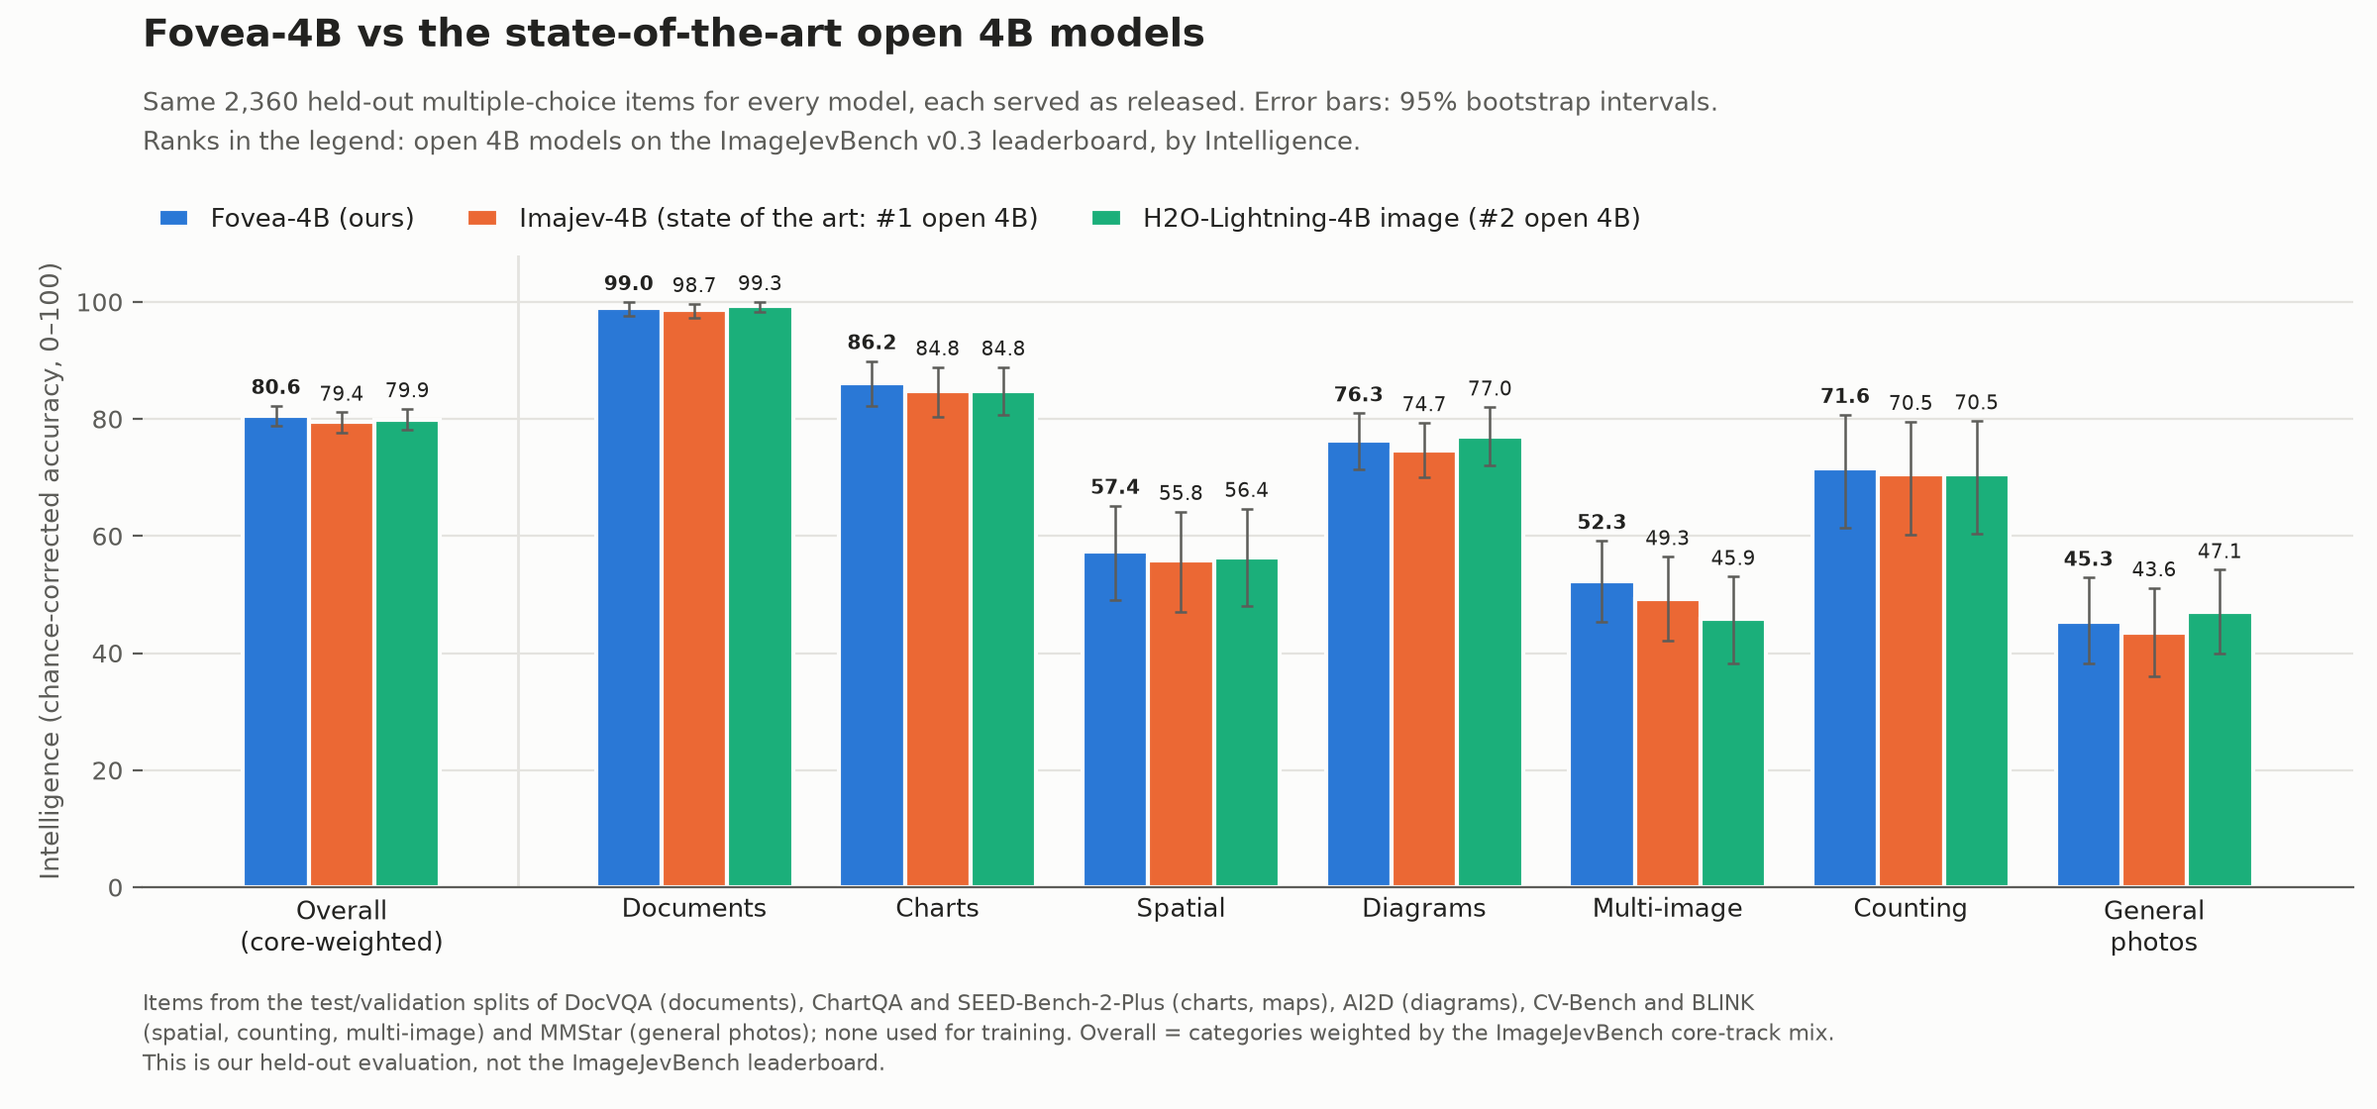
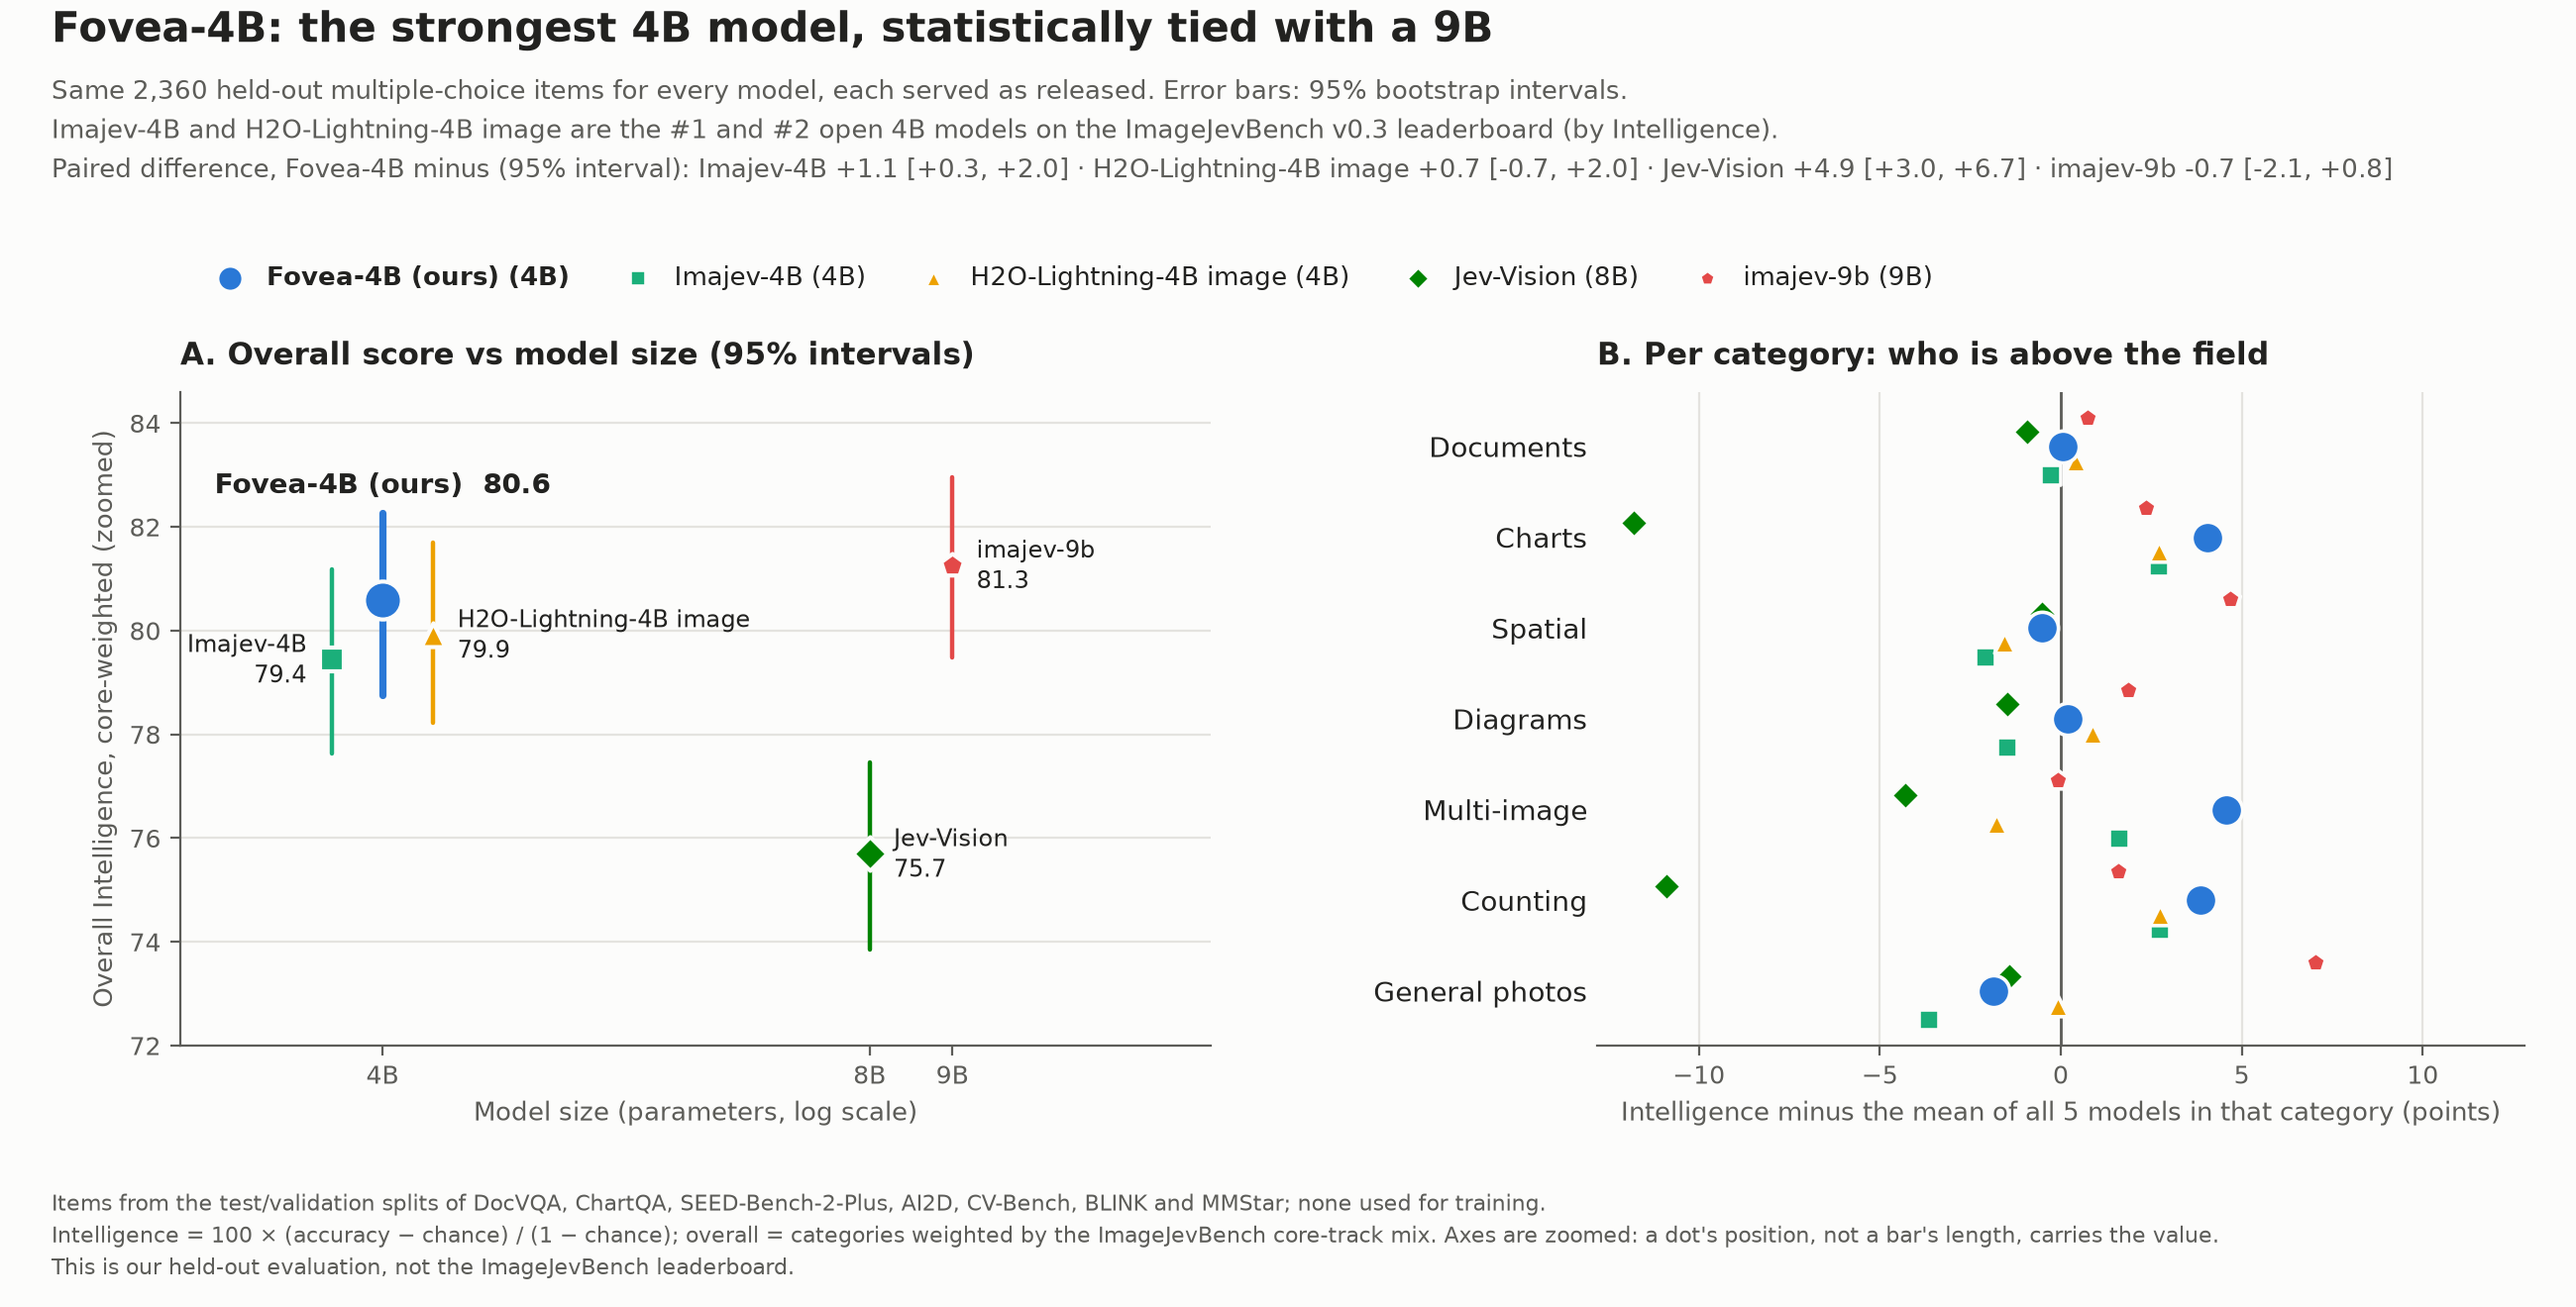
Compare with five open decision models; score-vs-size chart

diff --git a/README.md b/README.md
@@ -10,18 +10,23 @@ over TypeSafe's System One API, so any client of that API can call it unchanged.
 
 ## Results
 
-![Fovea-4B compared with Imajev-4B and H2O-Lightning-4B on 2,360 held-out questions](assets/comparison.png)
+![Fovea-4B compared with four open decision models on 2,360 held-out questions](assets/comparison.png)
 
-We compare Fovea-4B with the two strongest open 4B models on the ImageJevBench v0.3 leaderboard by Intelligence, the
-state of the art at this size: Imajev-4B (#1) and H2O-Lightning-4B image (#2). All three answer the same 2,360 held-out
-multiple-choice questions, each served as its authors release it (Fovea-4B: images up to 2 MP and its calibrated
-temperatures; Imajev-4B: native resolution, temperature 1.305; H2O-Lightning-4B: images up to 1 MP, temperature 0.65),
-and are scored with the leaderboard's Intelligence formula, 100 × (accuracy − chance) / (1 − chance).
+We compare Fovea-4B with four open decision models: the two strongest open 4B models on the ImageJevBench v0.3
+leaderboard by Intelligence, Imajev-4B (#1) and H2O-Lightning-4B image (#2), and two larger models, Jev-Vision (8B) and
+imajev-9b (9B). All five answer the same 2,360 held-out multiple-choice questions, each served as its authors release
+it, and are scored with the leaderboard's Intelligence formula, 100 × (accuracy − chance) / (1 − chance).
 
-Fovea-4B scores 80.6 overall, against 79.4 for Imajev-4B and 79.9 for H2O-Lightning-4B. Paired on the same questions,
-its lead over Imajev-4B is +1.2 points (95% interval +0.3 to +2.0) and over H2O-Lightning-4B +0.7 points (95% interval
-−0.7 to +2.0), with the largest gains on multi-image comparison, charts, spatial relations and counting. Its calibration
-error on these questions is also the lowest of the three (expected calibration error 0.035, against 0.059 and 0.061).
+Fovea-4B scores 80.6 overall, the highest of the 4B models (Imajev-4B 79.4, H2O-Lightning-4B 79.9). Paired on the same
+questions, it leads Imajev-4B by +1.1 points (95% interval +0.3 to +2.0) and H2O-Lightning-4B by +0.7 (−0.7 to +2.0). It
+beats the twice-as-large Jev-Vision (75.7) by +4.9 (+3.0 to +6.7) and is statistically tied with imajev-9b (81.3; −0.7,
+from −2.1 to +0.8) at less than half its size. By category it stands furthest above the field on multi-image comparison,
+charts and counting. Its calibration error is the lowest of the 4B models (expected calibration error 0.035, against
+0.059 and 0.061; imajev-9b 0.022, Jev-Vision 0.179).
+
+**How each model was served.** Fovea-4B: images up to 2 MP, its calibrated temperatures. Imajev-4B: native resolution,
+temperature 1.305. H2O-Lightning-4B image: images up to 1 MP, temperature 0.65. Jev-Vision: its own decision function,
+images up to 1.29 MP, temperature 0.5. imajev-9b: native resolution, temperature 1.748.
 
 **Evaluation data.** 2,360 multiple-choice questions from the test or validation splits of public benchmarks, none of
 them used for training: DocVQA (400 document questions), ChartQA (300) and SEED-Bench-2-Plus charts (100), AI2D (300
